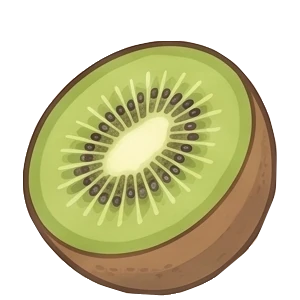
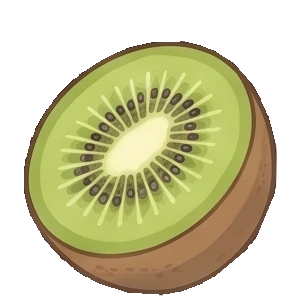
fix update data

diff --git a/frontend/src/components/PetHeaderMenu.vue b/frontend/src/components/PetHeaderMenu.vue
@@ -216,12 +216,12 @@ const getClipInset = (progress) => {
       >
         <div class="bg-[#fff6ef] border-2 border-[#f7c9a5] rounded-3xl p-5 w-full max-w-xs shadow-2xl relative flex flex-col gap-3">
 
-          <h3 class="text-lg font-bold text-center text-gray-800">Статистика игрока</h3>
+          <h3 class="text-lg font-bold text-center text-gray-800">Сведения</h3>
 
           <div class="flex flex-col gap-2 text-sm">
             <div class="flex justify-between items-center bg-white/60 p-2.5 rounded-2xl border border-[#f7c9a5]/40">
               <span class="font-semibold text-gray-600">Уровень:</span>
-              <span class="font-bold text-gray-800">{{ gameData.level }} ({{ Math.round(expPercentage) }}%)</span>
+              <span class="font-bold text-gray-800">{{ gameData.level }} ({{gameData.exp}}/{{Number(gameData.level) * 100}})</span>
             </div>
 
             <div class="flex justify-between items-center bg-white/60 p-2.5 rounded-2xl border border-[#f7c9a5]/40">

diff --git a/frontend/src/scripts/objectItems.js b/frontend/src/scripts/objectItems.js
@@ -102,6 +102,28 @@ export const foodList = [
         cost: 25,
         level: 10
     },
+    {
+        id: 'peach',
+        name: 'Персик',
+        image: `/food/peach.webp?v=${APP_VERSION}`,
+        category: 'food',
+        subcategory:'fruits',
+        foodGain: 10,
+        energyGain: 5,
+        cost: 25,
+        level: 10
+    },
+    {
+        id: 'pomegranate',
+        name: 'Персик',
+        image: `/food/pomegranate.webp?v=${APP_VERSION}`,
+        category: 'food',
+        subcategory:'fruits',
+        foodGain: 10,
+        energyGain: 5,
+        cost: 25,
+        level: 10
+    },
 
     {
         id: 'salmon_roll',

diff --git a/frontend/src/App.vue b/frontend/src/App.vue
@@ -81,7 +81,7 @@ onMounted(() => {
 
       <!-- Текст загрузки -->
       <span class="text-amber-200 font-extrabold tracking-widest text-sm uppercase drop-shadow-md animate-pulse">
-        Загрузка игры...
+        Загрузка...
       </span>
 
       <!-- Спиннер -->

diff --git a/src/backend/services/pet.py b/src/backend/services/pet.py
@@ -14,7 +14,7 @@ ENERGY_PER_MIN_SICK = 0.416
 
 async def pet_tick_job():
     pets = await PetModel.all()
-
+    NOW = int(time.time())
     for pet in pets:
         # --- 1. ЕДА уменьшается ВСЕГДА (и во сне, и при бодрствовании) ---
         food_rate = FOOD_PER_MIN_SICK if pet.sick else FOOD_PER_MIN_HEALTHY
@@ -31,11 +31,20 @@ async def pet_tick_job():
             pet.energy = max(0.0, pet.energy - energy_rate)
 
             # Какать/вонять питомец может только когда бодрствует
-            if not pet.is_pooped and random.random() < (1 / 90):
-                pet.is_pooped = True
+            if pet.last_interaction and (NOW - pet.last_interaction) >= 1800:
+                offline_minutes = (NOW - pet.last_interaction) / 60.0
 
-            if not pet.stinky and random.random() < (1 / 90):
-                pet.stinky = True
+                # Если прошло от 30 до 60 минут: шанс ~3.3% каждый тик (1 из 30).
+                # Если прошло 60+ минут: 100% гарантированно становится грязным.
+                if offline_minutes >= 60:
+                    pet.stinky = True
+                    pet.is_pooped = True
+                else:
+                    if not pet.stinky and random.random() < (1 / 30):
+                        pet.stinky = True
+
+                    if not pet.is_pooped and random.random() < (1 / 30):
+                        pet.is_pooped = True
 
         # --- 3. НАКОПЛЕНИЕ ГРЯЗИ И БОЛЕЗНЬ ---
         if (pet.is_pooped or pet.stinky) and not pet.sick:
